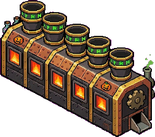
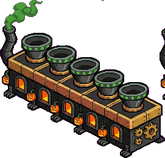
製造機の下から後ろのキャラが覗く問題を修正 + 横位置をホッパー基準に
- スプライトを bbox 中央で置いていたため、投入口がマス中心から 4.7〜13.3px
  横にズレていた（Nごとに量が違う）。アンカーで投入口0番をマス0の中心に合わせる
- 絵の本体の奥行がゲームの1マスより浅く、占有マスの手前側に床が残って
  後ろのキャラが覗いていた。占有マスを暗い土台で塞いでからスプライトを重ねる
- 依頼テンプレに、承認された生成物で効いていた FOOTPRINT & PROPORTIONS の5項目
  （NARROW SLAB / DEPTH RULER / LOW PROFILE / HEIGHT RATIO / NO CUBES）を追加

diff --git a/game/main.js b/game/main.js
@@ -379,10 +379,15 @@ class Main extends Phaser.Scene {
       const img=this.add.image((bx0+bx1)/2, by1, tex.key).setOrigin(0.5,1).setDepth(C.y).setTint(tint);
       if(flip) img.setFlipX(true);   // 素材はu方向。v方向は左右反転で角度が合う
       objs.push(img); e._lit=img; this.lit.push({sp:img,u,v});
-      const iw=img.width, ih=img.height, L=img.x-iw/2, T=img.y-ih;
+      const iw=img.width, ih=img.height;
       const fitA=((this.machFit()[tex.theme])||{})[String(tex.n)];
       if(fitA){
-        // 投入口0番の実位置。以降のマスは「ゲームの1マス送り」ぶんずらせば絵の口に乗る
+        // 投入口0番が「マス0の中心」の真上に来るよう横位置を合わせる。
+        // bbox中央で置くと絵ごとに数px〜十数px 横へズレ、マスの一部に床が見えてしまう。
+        const c0=cellXY(e.cell.c, e.cell.r);
+        const sx0=(img.x-iw/2)+(flip?1-fitA.ax:fitA.ax)*iw;
+        img.x += c0.x - sx0;
+        const L=img.x-iw/2, T=img.y-ih;
         const sx=L+(flip?1-fitA.ax:fitA.ax)*iw, sy=T+fitA.ay*ih;
         const du=cellXY(1,0).x-cellXY(0,0).x, dv=cellXY(1,0).y-cellXY(0,0).y;
         spotPts=this.cellsOf(e).map((q,i)=>({x:sx+(flip?-1:1)*du*i, y:sy+dv*i}));
@@ -390,6 +395,12 @@ class Main extends Phaser.Scene {
       } else {
         HG = Math.max(2, ih-(by1-by0));
       }
+      // 絵の本体の奥行はゲームの1マスより浅いことがあり、占有マスの手前側に床が残る。
+      // そこに後ろのキャラが覗くので、占有マスを暗い土台で塞いでからスプライトを重ねる。
+      const base=this.add.graphics().setDepth(C.y-0.3);
+      base.fillStyle(sk.edge,1); base.fillPoints([A,B,C,D],true);
+      base.lineStyle(2,sk.side,1); base.strokePoints([A,B,C,D],true);
+      objs.push(base);
       const sh=this.add.image((bx0+bx1)/2+3, by1-2, 'shadow').setDepth(C.y-0.5)
         .setDisplaySize(iw*0.9,(by1-by0)*0.7).setAlpha(0.42); objs.push(sh);
     } else {

diff --git a/tools/cut_machines.py b/tools/cut_machines.py
@@ -37,7 +37,7 @@ MIN_AREA = 2000               # これ未満の連結成分はゴミとして捨
 # 投入口(素材を置く場所)の色。テーマごとに違うので判定を持たせる。
 # 未登録のテーマは較正できないので、従来どおり幅合わせにフォールバックする。
 SPOT_TEST = {
-    'halloween': lambda p: p[3] > 128 and p[0] > 140 and p[1] > 140 and p[2] < 140 and abs(p[0]-p[1]) < 45,   # 真鍮の漏斗
+    'halloween': lambda p: p[3] > 128 and max(p[:3]) < 60,                                                    # ホッパーの暗い口
     'onsen':     lambda p: p[3] > 128 and p[1] > 140 and p[2] > 140 and p[0] < 170 and p[1]-p[0] > 25,        # 湯(ターコイズ)
 }
 SPOT_MIN_AREA = 120

diff --git a/tools/mach_prompt_template.md b/tools/mach_prompt_template.md
@@ -99,6 +99,18 @@ parallelogram, roughly as visually prominent as the side face.
 The long axis runs from the BACK END at the UPPER-LEFT down to the FRONT END at the LOWER-RIGHT.
 Only this one orientation; do not draw a mirrored version.
 
+=== FOOTPRINT & PROPORTIONS (CRITICAL) ===
+1. NARROW SLAB: each machine is several tiles long but exactly ONE TILE DEEP.
+   The top plate is a narrow strip.
+2. DEPTH RULER: the rim of one funnel almost spans the entire depth of the top
+   plate, leaving only a tiny margin of plate on either side.
+3. LOW PROFILE: the housing is very low — only half a tile tall. The long side
+   face is a short band, not a tall wall.
+4. HEIGHT RATIO: from feet to funnel rim, the funnels are 1/4 of the total
+   height and the housing is 3/4.
+5. NO CUBES: even the shortest 2-unit machine is a long rectangle (twice as long
+   as it is deep), never a square or a cube.
+
 === THE FOUR MACHINES — ONE SHARED TILE PITCH ===
 The four machines sit in a 2x2 grid with wide magenta gaps.
 The distance between the centres of two neighbouring hoppers is called
